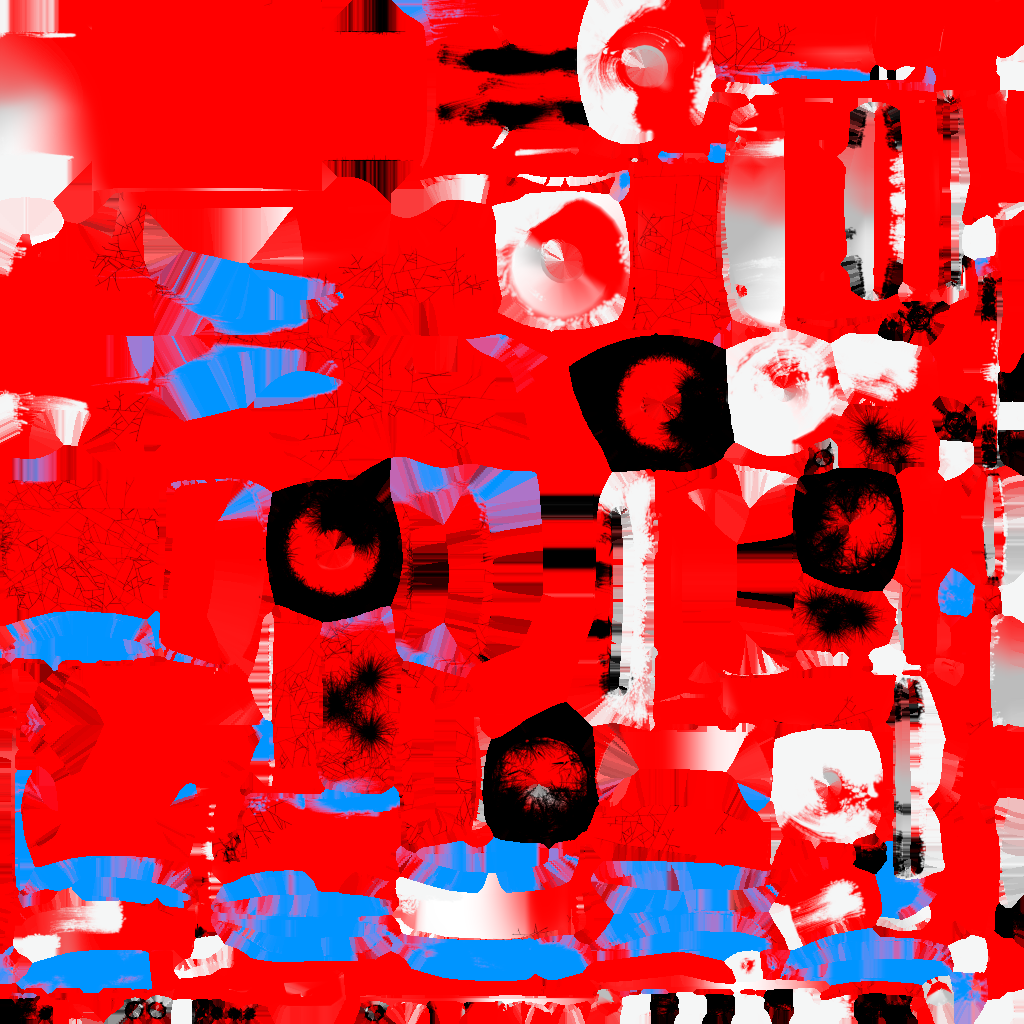
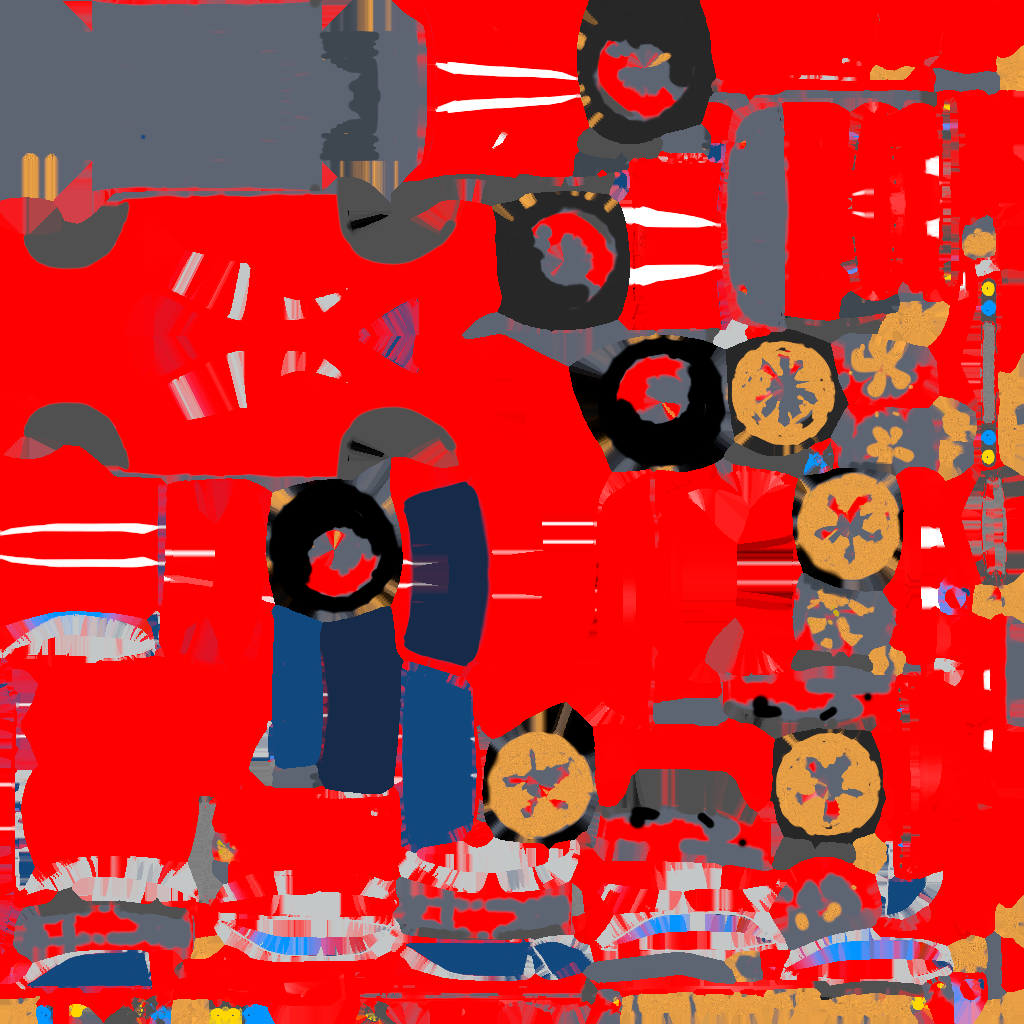
entregafinal

diff --git a/screen.cs b/screen.cs
@@ -14,7 +14,8 @@ namespace ConsoleApplication1
     {
         Texture2D Texture;
         Texture2D Texture2;
-        
+        Texture2D Texture3;
+
         Punto[] punto = new Punto[10000];
        
      
@@ -47,10 +48,11 @@ namespace ConsoleApplication1
 
 
             auto.crear("carrito.obj");
-           // mono.crear("mono.obj");
+            mono.crear("mono.obj");
             Texture = PathTexture.LoadTexture("fondo.jpg");
             Texture2 = PathTexture.LoadTexture("carrito.png");
-           
+            Texture3 = PathTexture.LoadTexture("mono.png");
+
             factorScale = 1;
             factorTrans = 0;
 
@@ -78,7 +80,7 @@ namespace ConsoleApplication1
             //GL.Rotate(angulor, 0, 1, 0);
 
             auto.dibujar(Texture2,angulo,factorScale,factorTrans);
-            // mono.dibujar(Texture2, 0, fScale,0);
+             mono.dibujar(Texture3, -45, -0.3,1.5);
             r = false;
 
            GL.Rotate(angulor, 0, 0,- 1);
@@ -133,7 +135,7 @@ namespace ConsoleApplication1
           {
               base.OnMouseMove(e);
              angulo = 0.05 * e.Mouse.X;
-            angulor = 0.001 * e.Mouse.X;
+             angulor = 0.001 * e.Mouse.X;
             // angulo = 0.001 * e.Mouse.Y;
 
         }
